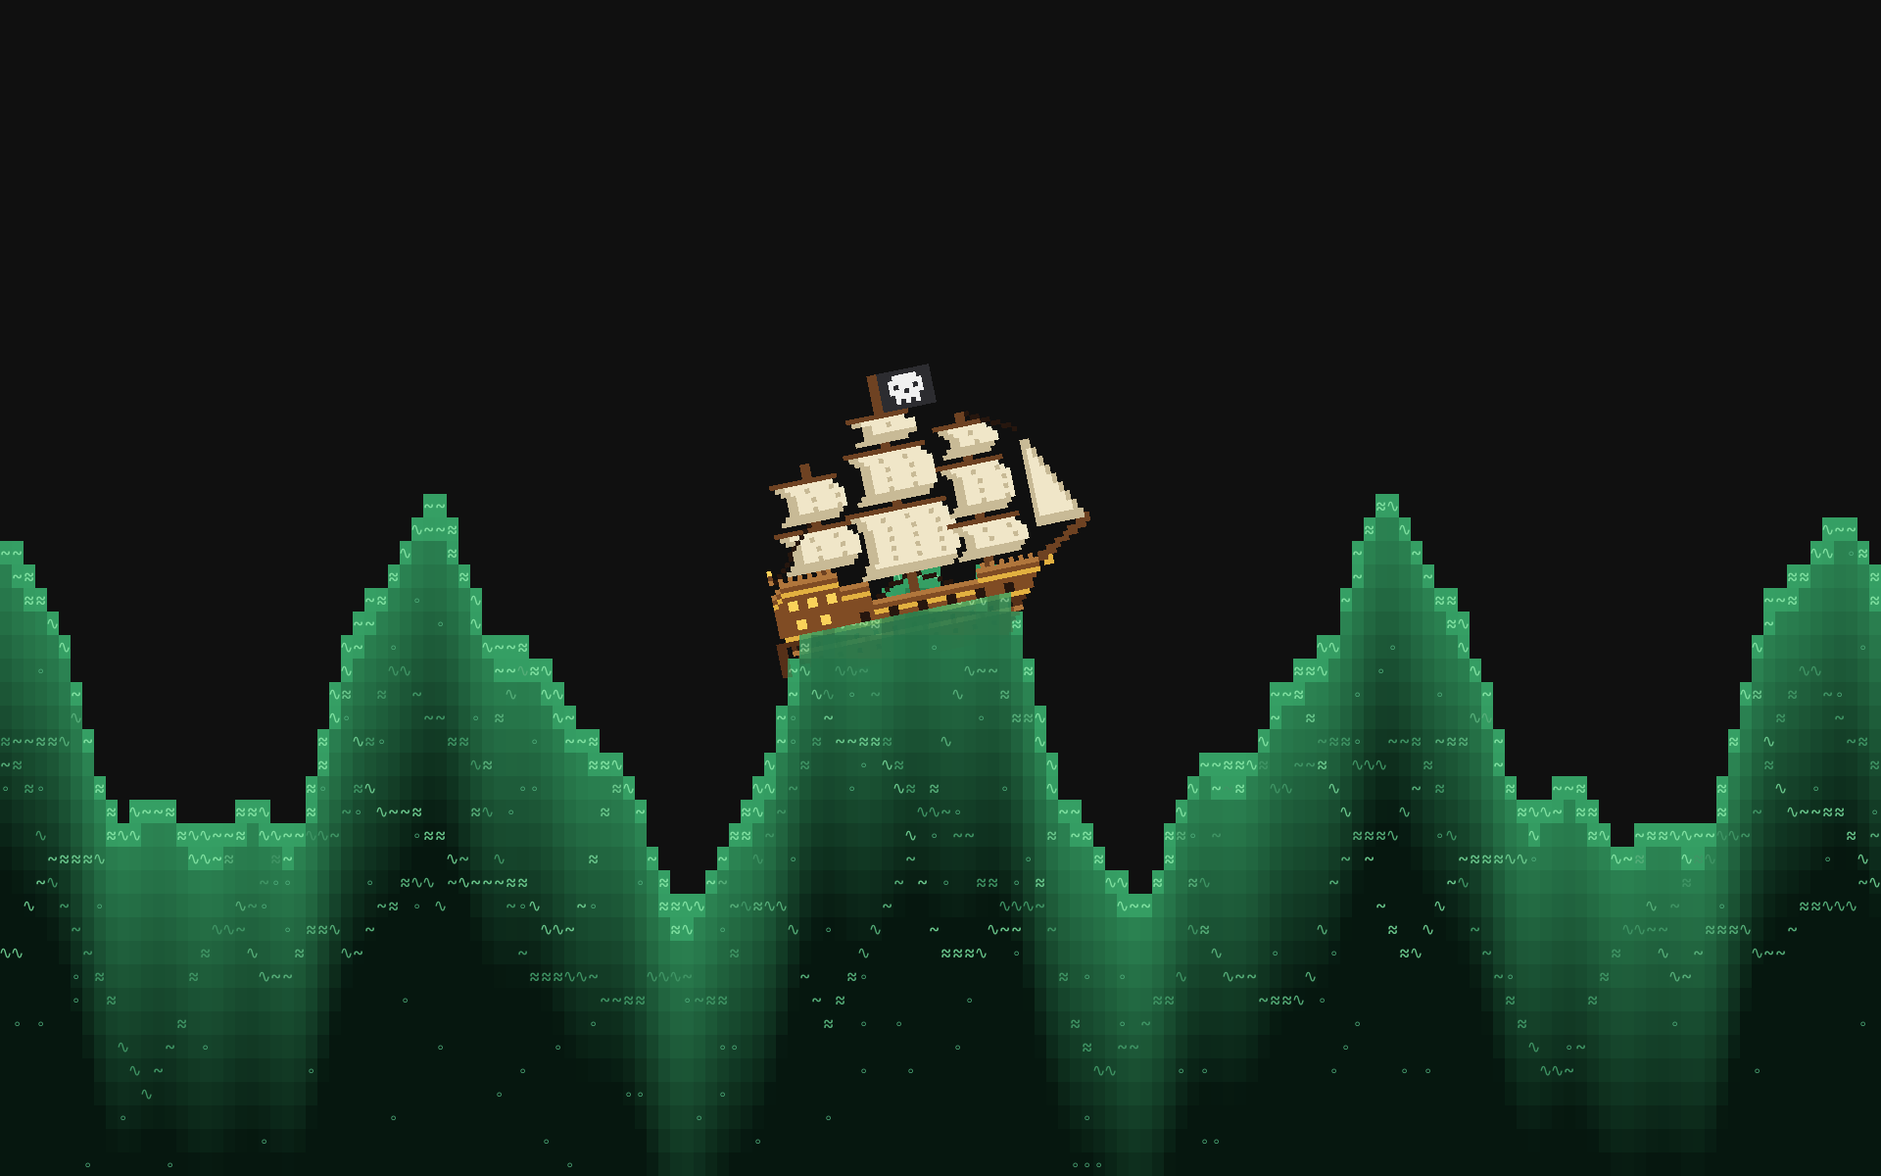
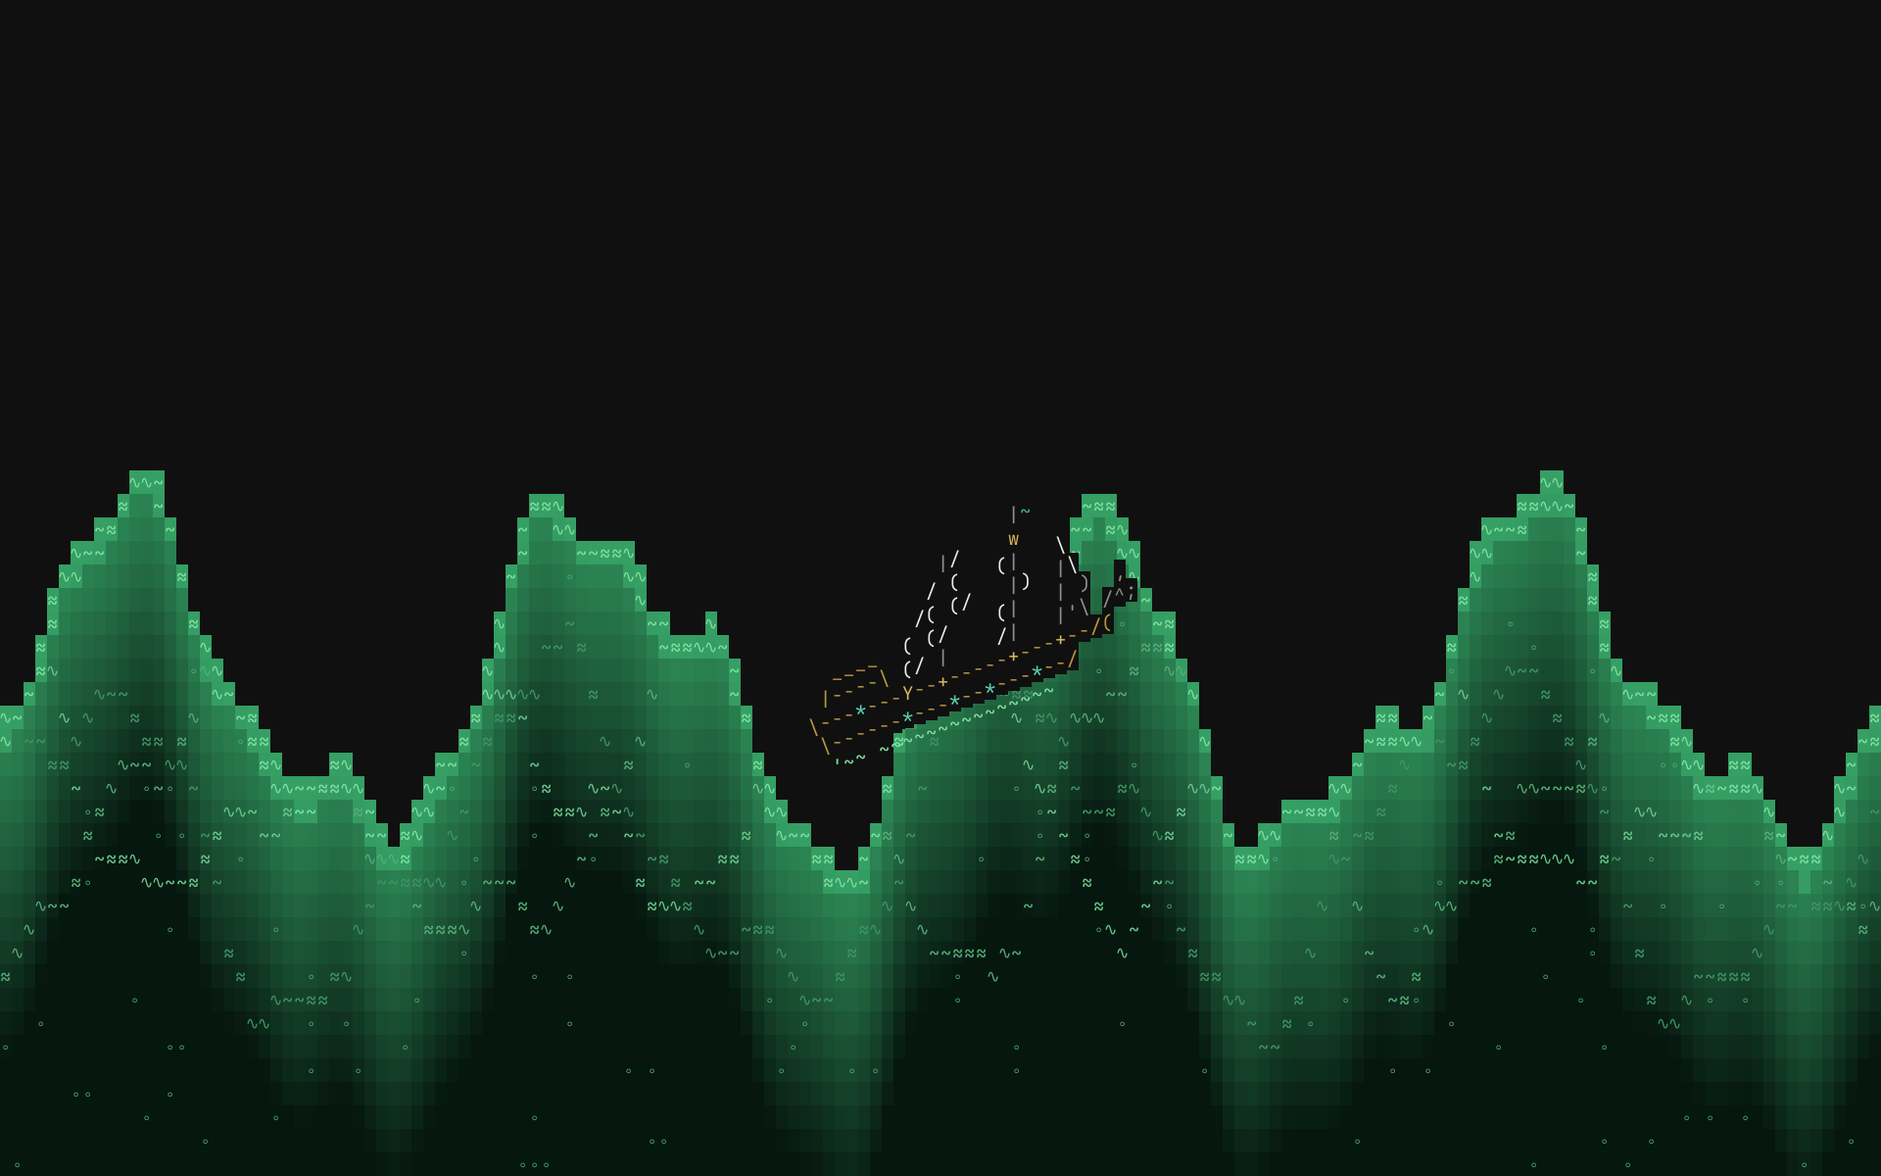
update: ascii ship, arch install

diff --git a/cosmic/_setup/wave-wallpaper/src/wave.rs b/cosmic/_setup/wave-wallpaper/src/wave.rs
@@ -38,12 +38,10 @@ pub struct Cfg {
     pub bubble: (u8, u8, u8),
     pub ripple_hi: (u8, u8, u8),
     pub ripple_lo: (u8, u8, u8),
-    /// Float a pixel-art pirate ship on the water.
+    /// Float a pirate ship, drawn in characters, on the water.
     pub ship: bool,
     /// Ship centre as a fraction of the width.
     pub ship_x: f32,
-    /// Screen pixels per sprite pixel.
-    pub ship_scale: usize,
     /// Whole screen crossings per loop (0 = stays put, negative = leftwards).
     pub ship_laps: i32,
 }
@@ -72,7 +70,6 @@ impl Default for Cfg {
             ripple_lo: (40, 120, 190),
             ship: false,
             ship_x: 0.5,
-            ship_scale: 5,
             ship_laps: 0,
         }
     }
@@ -325,9 +322,13 @@ impl Raster {
         let paths = [
             format!("{home}/.local/share/fonts/JetBrainsMono/JetBrainsMono-Regular.ttf"),
             "/usr/share/fonts/jetbrains-mono-fonts/JetBrainsMono-Regular.ttf".into(),
+            "/usr/share/fonts/TTF/JetBrainsMono-Regular.ttf".into(), // Arch
             "/usr/share/fonts/adwaita-mono-fonts/AdwaitaMono-Regular.ttf".into(),
             "/usr/share/fonts/liberation-mono-fonts/LiberationMono-Regular.ttf".into(),
             "/usr/share/fonts/dejavu-sans-fonts/DejaVuSans.ttf".into(),
+            "/usr/share/fonts/Adwaita/AdwaitaMono-Regular.ttf".into(),
+            "/usr/share/fonts/liberation/LiberationMono-Regular.ttf".into(),
+            "/usr/share/fonts/TTF/DejaVuSans.ttf".into(),
         ];
         let fonts: Vec<_> = paths
             .iter()
@@ -379,6 +380,51 @@ impl Raster {
                 }
                 let o = (py as usize * w + px as usize) * 4;
                 let c = lerp_rgb((frame[o], frame[o + 1], frame[o + 2]), cell.fg, a);
+                frame[o..o + 3].copy_from_slice(&[c.0, c.1, c.2]);
+            }
+        }
+    }
+    /// One character with its top-left cell corner at pixel (x, y), off the
+    /// grid. `bg` fills the cell first.
+    #[allow(clippy::too_many_arguments)]
+    fn blit(
+        &mut self,
+        frame: &mut [u8],
+        w: usize,
+        h: usize,
+        x: i32,
+        y: i32,
+        ch: char,
+        fg: (u8, u8, u8),
+        bg: Option<(u8, u8, u8)>,
+    ) {
+        let inside = |px: i32, py: i32| px >= 0 && py >= 0 && (px as usize) < w && (py as usize) < h;
+        if let Some(bg) = bg {
+            for py in y..y + self.cell_h as i32 {
+                for px in x..x + self.cell_w as i32 {
+                    if inside(px, py) {
+                        let o = (py as usize * w + px as usize) * 4;
+                        frame[o..o + 3].copy_from_slice(&[bg.0, bg.1, bg.2]);
+                    }
+                }
+            }
+        }
+        if ch == ' ' {
+            return;
+        }
+        let (cw, ascent) = (self.cell_w as i32, self.ascent);
+        let (m, bmp) = self.glyph(ch);
+        let gx = x + (cw - m.width as i32) / 2;
+        let gy = y + (ascent - m.height as f32 - m.ymin as f32).round() as i32;
+        for iy in 0..m.height {
+            for ix in 0..m.width {
+                let a = bmp[iy * m.width + ix] as f32 / 255.0;
+                let (px, py) = (gx + ix as i32, gy + iy as i32);
+                if a == 0.0 || !inside(px, py) {
+                    continue;
+                }
+                let o = (py as usize * w + px as usize) * 4;
+                let c = lerp_rgb((frame[o], frame[o + 1], frame[o + 2]), fg, a);
                 frame[o..o + 3].copy_from_slice(&[c.0, c.1, c.2]);
             }
         }
@@ -560,9 +606,9 @@ impl WaveRenderer {
             }
         }
         if let Some(ship) = &self.ship {
-            // The ship is drawn in pixels over the cell grid, so every cell
-            // it may have touched is re-rasterised next frame.
-            let (x0, y0, x1, y1) = ship.draw(&mut self.frame, &self.c, &self.surf, t);
+            // Drawn in pixels over the grid, so every cell it touched is
+            // re-rasterised next frame.
+            let (x0, y0, x1, y1) = ship.draw(&mut self.frame, &mut self.raster, &self.c, t);
             for cy in y0 / self.c.cell_h..y1.div_ceil(self.c.cell_h).min(rows) {
                 for cx in x0 / self.c.cell_w..x1.div_ceil(self.c.cell_w).min(cols) {
                     self.prev[cy * cols + cx] = None;
@@ -575,97 +621,43 @@ impl WaveRenderer {
 
 
 // ---- pirate ship --------------------------------------------------------------
-/// Galleon sprite, bow to the right. One char per sprite pixel, see
-/// `ship_rgb` for the palette; '.' is transparent.
-const SHIP_W: usize = 68;
-const SHIP_H: usize = 60;
-#[rustfmt::skip]
-const SHIP: [&str; SHIP_H] = [
-    ".............................mmFFFFFFFFFFF..........................",
-    ".............................mmFFFWWWWWFFF..........................",
-    ".............................mmFFWWWWWWWFF..........................",
-    ".............................mmFFWFWWWFWFF..........................",
-    ".............................mmFFWWWFWWWFF..........................",
-    ".............................mmFFFWWWWWFFF..........................",
-    ".............................mmFFFWFWFWFFF..........................",
-    ".............................mmFFFFFFFFFFF..........................",
-    ".......................mmmmmmmmmmmmm................................",
-    "........................ssSSSSSSSSS.................................",
-    "..........................ssSSSsSSSSS...............................",
-    "..........................ssSSSSSSSSS........mmk....................",
-    "..........................sssssssssss........mm.kk..................",
-    "........................sssssssssss.....mmmmmmmmmmkk................",
-    ".............................mm..........ssSSSSSSSS.kk..............",
-    "............mm.......mmmmmmmmmmmmmmmmm....ssSSSsSSSS..kk............",
-    "............mm........ssSSSSSSSSSSSSS......ssSSSSSSSS...k...........",
-    "............mm.........ssSSSsSSSSsSSSS.....ssSSSsSSSS...............",
-    ".....mmmmmmmmmmmmmm.....ssSSSSSSSSSSSSS...ssssssssss................",
-    "......ssSSSSSSSSSS......ssSSSsSSSSsSSSS..ssssssssss......ss.........",
-    ".......ssSSSsSSSSsS.....ssSSSSSSSSSSSSS......mm..........ss.........",
-    "........ssSSSSSSSSSS....ssSSSsSSSSsSSSSmmmmmmmmmmmmmm....sSs........",
-    "........ssSSSsSSSSsS....ssSSSSSSSSSSSSS.ssSSSSSSSSSS.....sSs........",
-    "........ssSSSSSSSSSS....ssSSSsSSSSsSSSS..ssSSSsSSSSsS....sSSs.......",
-    "........ssSSSsSSSSsS...sssssssssssssss....ssSSSSSSSSSS...sSSs.......",
-    ".......ssssssssssss...sssssssssssssss.....ssSSSsSSSSsS...sSSSs......",
-    "......ssssssssssss...........mm...........ssSSSSSSSSSS...sSSSs......",
-    "...........kmm.....mmmmmmmmmmmmmmmmmmmmm..ssSSSsSSSSsS...sSSSSs.....",
-    "....mmmmmmkmmmmmmmmmssSSSSSSSSSSSSSSSSS...ssSSSSSSSSSS...sSSSSs.....",
-    ".....ssSSkSSSSSSSSS..ssSSSsSSSSsSSSSsSSS..ssSSSsSSSSsS...sSSSSSs....",
-    "......sskSSsSSSSsSSS.ssSSSSSSSSSSSSSSSSS.ssssssssssss....sSSSSSs....",
-    ".......ksSSSSSSSSSSSS.ssSSSsSSSSsSSSSsSSssssssssssss.....sSSSSSSs...",
-    "......kssSSSsSSSSsSSS.ssSSSSSSSSSSSSSSSSS....mm..........sSSSSSSs...",
-    "......kssSSSSSSSSSSSS.ssSSSsSSSSsSSSSsSmmmmmmmmmmmmmmm...sSSSSSSSs..",
-    ".....k.ssSSSsSSSSsSSS.ssSSSSSSSSSSSSSSSSssSSSSSSSSSSS....sSSSSSSSs..",
-    ".Y..k.ssssssssssssss..ssSSSsSSSSsSSSSsSSSssSSSsSSSSsSS...ssssssssss.",
-    ".m.k.ssssssssssssss...ssSSSSSSSSSSSSSSSSS.ssSSSSSSSSSSS..ssssssssssm",
-    ".wkw.w.w.w.wmw........ssSSSsSSSSsSSSSsSSS.ssSSSsSSSSsSS..........mmm",
-    "...wwwwwwwwwwww......ssSSSSSSSSSSSSSSSSS..ssSSSSSSSSSSS........mmmm.",
-    "..wbbbbbbbbbbbb......sssssssssssssssssss.sssssssssssss........mmm...",
-    ".wbGGGGGGGGGGGG.....sssssssssssssssssss.sssssssssssss.......mmm.....",
-    ".bGbbbbbbbbbbbbwwwwww.......kmmk.............mm...........mmm.......",
-    ".GbbYYbbYYbbYYbbbbbbb....kkk.mm.kkk.........wmw.w.w.w.w.mmmm........",
-    ".bbbYYbbYYbbYYbGGGGGG...k....mm....k.......wwwwwwwwwwwwwmmG.........",
-    ".bbbbbbbbbbbbbbbbbbbb.kk.....mm.....kk.....bbbbbbbbbbbbb.GG.........",
-    ".bbbbbbbbbbbbbbbbbbbbwwwwwwwwwwwwwwwwwwwwwwGGGGGGGGGGGGG............",
-    ".bbbbYYbbbYYbbbbbbbbbbbbbbbbbbbbbbbbbbbbbbbbbbbbbbbbbbb.............",
-    ".bbbbYYbbbYYbbbbbbkkbGGGkkGGGGkkGGGGkkGGGGkkbbbbkkbbbb..............",
-    ".bbbbbbbbbbbbbbbbbkkbbbbkkbbbbkkbbbbkkbbbbkkbbbbkkbbbb..............",
-    "..GGGGGGGGGGGGGGGGGGGGGGGGGGGGGGGGGGGGGGGGGGGGGGGGGGG...............",
-    "BBBBBBBBBBBBBBBBBBBBBBBBBBBBBBBBBBBBBBBBBBBBBBBBBBBB................",
-    "BB.BkBBBkBBBkBBBkBBBkBBBkBBBkBBBkBBBkBBBkBBBkBBBkBB.................",
-    "BB.wwwbwwwwwbwwwwwbwwwwwbwwwwwbwwwwwbwwwwwbwwwwwbww.................",
-    "BB..BBBBBBBBBBBBBBBBBBBBBBBBBBBBBBBBBBBBBBBBBBBBBB..................",
-    "BB..kBBBkBBBkBBBkBBBkBBBkBBBkBBBkBBBkBBBkBBBkBBBk...................",
-    "BB....BBBBBBBBBBBBBBBBBBBBBBBBBBBBBBBBBBBBBBBBBB....................",
-    "BB......BBBBBBBBBBBBBBBBBBBBBBBBBBBBBBBBBBBBBBBB....................",
-    "........BBBBBBBBBBBBBBBBBBBBBBBBBBBBBBBBBBBBBBB.....................",
-    "....................................................................",
-    "....................................................................",
+/// Ship in characters, bow to the right; the last row is its wake.
+const SHIP: [&str; 9] = [
+    r"                 |~",
+    r"           |/    w",
+    r"          / (   (|   \",
+    r"         /( (/   |)  |\",
+    r"  ____  ( (/    (|   | )  ,",
+    r" |----\ (/ |    /|   |'\ /^;",
+    r"\---*---Y--+-----+---+--/(",
+    r" \------*---*--*---*--/",
+    r"  '~~ ~~~~~~~~~~~~~~~",
 ];
-/// Sprite point that sits on the water: midships, on the design waterline.
-const SHIP_PIVOT: (f32, f32) = (29.0, 52.5);
-/// Sprite rows of hull below the waterline at rest.
-const SHIP_DRAFT_PX: f32 = 5.5;
-/// Topmost sprite row the sea may cover.
-const SHIP_WASH_ROW: f32 = 49.0;
-/// Hull length at the waterline, in sprite pixels.
-const SHIP_HULL_PX: f32 = 54.0;
+const SHIP_W: usize = 28;
+/// Art point that sits on the water: midships, on the design waterline.
+const SHIP_PIVOT: (f32, f32) = (12.0, 7.4);
+/// Rows of hull below the waterline at rest.
+const SHIP_DRAFT: f32 = 0.9;
+const SHIP_WAKE_ROW: usize = 8;
+/// Hull length at the waterline, in cells.
+const SHIP_HULL: f32 = 23.0;
 
-fn ship_rgb(ch: u8) -> Option<(u8, u8, u8)> {
-    Some(match ch {
-        b'k' => (38, 22, 14),    // tar / outline
-        b'B' => (86, 48, 24),    // dark planks
-        b'b' => (128, 76, 36),   // planks
-        b'w' => (176, 118, 60),  // light planks, rails
-        b'm' => (110, 66, 34),   // masts, yards
-        b'G' => (226, 176, 64),  // gold trim
-        b'Y' => (250, 210, 90),  // lit windows
-        b'S' => (240, 230, 200), // sails
-        b's' => (200, 186, 150), // sail shade
-        b'F' => (44, 44, 48),    // jolly roger
-        b'W' => (240, 240, 240), // skull
-        _ => return None,
-    })
+/// Colours from the blackpearl palette, by part.
+fn ship_rgb(row: usize, col: usize, ch: char) -> (u8, u8, u8) {
+    const MAST: (u8, u8, u8) = (0x8c, 0x91, 0x8d);
+    const HULL: (u8, u8, u8) = (0xb8, 0x97, 0x3f);
+    const TRIM: (u8, u8, u8) = (0xd9, 0xb8, 0x5a);
+    match (row, col, ch) {
+        (SHIP_WAKE_ROW, ..) => (0x7f, 0xe0, 0xa0),         // wake: ghost green
+        (_, _, '~') => (0x3c, 0xb3, 0x71),                 // flag: sea green
+        (_, _, 'w') => TRIM,                               // crow's nest
+        (_, 11 | 17 | 21, '|') => MAST,
+        (4..=5, 22.., _) => MAST,                          // bowsprit
+        (6.., _, '*') => (0x5f, 0xd1, 0xb5),               // lit ports
+        (6.., _, 'Y' | '+') => TRIM,
+        (6.., ..) | (4..=5, ..=6, _) => HULL,              // hull, stern castle
+        _ => (0xe6, 0xec, 0xe7),                           // sails
+    }
 }
 
 const SHIP_HZ: f32 = 240.0;
@@ -682,7 +674,11 @@ const SHIP_HEAVE_ZETA: f32 = 0.6;
 /// Pitch spring: natural frequency (rad/s) and damping ratio.
 const SHIP_PITCH_W: f32 = 5.0;
 const SHIP_PITCH_ZETA: f32 = 0.45;
-const SHIP_MAX_PITCH: f32 = 0.36;
+const SHIP_MAX_PITCH: f32 = 0.26;
+/// In the air: radians of pitch per row/s of vertical speed (before the
+/// atan), and the limit.
+const SHIP_AIR_PITCH: f32 = 0.05;
+const SHIP_MAX_AIR_PITCH: f32 = 0.4;
 /// Surge: how hard the ship slides down a wave face, and the mooring
 /// spring/damper that brings it back.
 const SHIP_SURGE_PUSH: f32 = 7.0;
@@ -718,11 +714,10 @@ impl Ship {
     }
 
     fn new(c: &Cfg, wave: &Wave, cols: f32) -> Self {
-        let scale = c.ship_scale as f32;
         let aspect = c.cell_h as f32 / c.cell_w as f32;
-        let half_hull = SHIP_HULL_PX * scale / c.cell_w as f32 / 2.0;
-        let draft = SHIP_DRAFT_PX * scale / c.cell_h as f32;
-        let half_extent = SHIP_W as f32 * scale / c.cell_w as f32;
+        let half_hull = SHIP_HULL / 2.0;
+        let draft = SHIP_DRAFT;
+        let half_extent = SHIP_W as f32;
         let span = cols + 2.0 * half_extent;
         let mut ship = Ship {
             track: Vec::new(),
@@ -776,11 +771,15 @@ impl Ship {
             // pull it down faster than it falls: off a sharp crest it flies.
             vy += lift.min(gravity) * dt;
             y += vy * dt;
-            // Pitch towards the water's slope; in the air it just coasts.
+            // Pitch towards the water's slope.
             let px_slope = slope * aspect;
-            let target = (px_slope.atan() * 0.75).clamp(-SHIP_MAX_PITCH, SHIP_MAX_PITCH);
+            let afloat = (px_slope.atan() * 0.75).clamp(-SHIP_MAX_PITCH, SHIP_MAX_PITCH);
+            // Airborne it points along its fall: bow up while rising, bow
+            // down as it drops back.
+            let flying = (vy * SHIP_AIR_PITCH).atan().clamp(-SHIP_MAX_AIR_PITCH, SHIP_MAX_AIR_PITCH);
+            let target = afloat * wet + flying * (1.0 - wet);
             let k = SHIP_PITCH_W * SHIP_PITCH_W;
-            om += (k * (0.25 + 0.75 * wet) * (target - th) - 2.0 * SHIP_PITCH_ZETA * SHIP_PITCH_W * om) * dt;
+            om += (k * (target - th) - 2.0 * SHIP_PITCH_ZETA * SHIP_PITCH_W * om) * dt;
             th += om * dt;
             // Surge.
             vx += (SHIP_SURGE_PUSH * wet * px_slope.clamp(-1.5, 1.5) - SHIP_SURGE_K * xo - SHIP_SURGE_DAMP * vx) * dt;
@@ -810,48 +809,42 @@ impl Ship {
         (a.0 + (b.0 - a.0) * k, a.1 + (b.1 - a.1) * k, a.2 + (b.2 - a.2) * k)
     }
 
-    /// Paint the ship into `frame`; returns the touched pixel rectangle
-    /// (x0, y0, x1, y1), end-exclusive. `surf` is the water surface row per
-    /// cell column for this frame: hull pixels inside water cells only show
-    /// through faintly, so the ship sits in the sea rather than on it.
-    fn draw(&self, frame: &mut [u8], c: &Cfg, surf: &[f32], t: f32) -> (usize, usize, usize, usize) {
+    /// Paint the ship's characters into `frame`, over the rasterised grid,
+    /// at pixel positions so it moves smoothly. Pitch is a shear: columns
+    /// slide up or down and the glyphs stay upright. Returns the touched
+    /// pixel rectangle (x0, y0, x1, y1), end-exclusive. Every character,
+    /// wake included, is opaque and in front of the waves.
+    fn draw(&self, frame: &mut [u8], raster: &mut Raster, c: &Cfg, t: f32) -> (usize, usize, usize, usize) {
         let (xo, y, th) = self.state(t);
-        let scale = c.ship_scale as f32;
-        let cxp = (self.base_x(t) + xo) * c.cell_w as f32;
-        let cyp = y * c.cell_h as f32;
-        let r = (SHIP_W as f32).hypot(SHIP_H as f32) * scale;
-        let clamp = |v: f32, hi: usize| v.clamp(0.0, hi as f32) as usize;
-        let (x0, x1) = (clamp(cxp - r, c.width), clamp(cxp + r, c.width));
-        let (y0, y1) = (clamp(cyp - r, c.height), clamp(cyp + r, c.height));
-        let (sin, cos) = th.sin_cos();
-        for py in y0..y1 {
-            let row = (py / c.cell_h) as f32;
-            for px in x0..x1 {
-                let (dx, dy) = (px as f32 + 0.5 - cxp, py as f32 + 0.5 - cyp);
-                let u = ((dx * cos + dy * sin) / scale + SHIP_PIVOT.0).floor();
-                let v = ((dy * cos - dx * sin) / scale + SHIP_PIVOT.1).floor();
-                if u < 0.0 || v < 0.0 || u >= SHIP_W as f32 || v >= SHIP_H as f32 {
+        let (cw, chh) = (c.cell_w as f32, c.cell_h as f32);
+        let left = (self.base_x(t) + xo - SHIP_PIVOT.0) * cw;
+        let top = (y - SHIP_PIVOT.1) * chh;
+        let slope = th.tan();
+        let (mut bx0, mut by0, mut bx1, mut by1) = (c.width, c.height, 0usize, 0usize);
+        for (r, line) in SHIP.iter().enumerate() {
+            // The ship is solid: the gaps inside it hide the sea behind too.
+            let lo = line.find(|ch| ch != ' ').unwrap();
+            // (not the gap under the bowsprit)
+            let hi = if (4..=5).contains(&r) { 23 } else { line.len() };
+            for (u, ch) in line.chars().enumerate() {
+                let solid = r != SHIP_WAKE_ROW && (ch != ' ' || (u >= lo && u < hi));
+                if ch == ' ' && !solid {
                     continue;
                 }
-                let Some(rgb) = ship_rgb(SHIP[v as usize].as_bytes()[u as usize]) else {
-                    continue;
-                };
-                // Water only laps the hull: from the wale down it is drawn
-                // over the ship, above that the ship is in front of the sea.
-                let depth = row + 0.5 - surf[px / c.cell_w];
-                let alpha = if depth < 0.0 || v < SHIP_WASH_ROW {
-                    1.0
-                } else {
-                    0.28 * (1.0 - depth / 3.0)
-                };
-                if alpha <= 0.0 {
+                let x = (left + u as f32 * cw).round() as i32;
+                let dy = (u as f32 + 0.5 - SHIP_PIVOT.0) * cw * slope;
+                let yy = (top + r as f32 * chh + dy).round() as i32;
+                if x + c.cell_w as i32 <= 0 || yy + c.cell_h as i32 <= 0 || x >= c.width as i32 || yy >= c.height as i32 {
                     continue;
                 }
-                let o = (py * c.width + px) * 4;
-                let m = lerp_rgb((frame[o], frame[o + 1], frame[o + 2]), rgb, alpha);
-                frame[o..o + 3].copy_from_slice(&[m.0, m.1, m.2]);
+                let bg = solid.then_some(c.sky);
+                raster.blit(frame, c.width, c.height, x, yy, ch, ship_rgb(r, u, ch), bg);
+                bx0 = bx0.min(x.max(0) as usize);
+                by0 = by0.min(yy.max(0) as usize);
+                bx1 = bx1.max(((x + c.cell_w as i32).max(0) as usize).min(c.width));
+                by1 = by1.max(((yy + c.cell_h as i32).max(0) as usize).min(c.height));
             }
         }
-        (x0, y0, x1, y1)
+        (bx0.min(bx1), by0.min(by1), bx1, by1)
     }
 }

diff --git a/cosmic/_setup/wave-wallpaper/src/main.rs b/cosmic/_setup/wave-wallpaper/src/main.rs
@@ -5,8 +5,7 @@
 //! (all optional): `--width/--height/--cell-w/--cell-h/--fps`, `--loop SECS`,
 //! `--rate WORDS_PER_SEC`, `--no-words`, `--no-bubbles`, `--amp SCALE`, `--chop SCALE`,
 //! colours as `#rrggbb`: `--sky --sea --deep --crest --foam --bubble
-//! --ripple-hi --ripple-lo`, the ship: `--ship [--ship-x FRAC]
-//! [--ship-scale PX] [--ship-laps N]`, and `--at SECS` to emit the single
+//! --ripple-hi --ripple-lo`, the ship: `--ship [--ship-x FRAC] [--ship-laps N]`, and `--at SECS` to emit the single
 //! frame at that timeline time instead of the whole video.
 
 mod wave;
@@ -54,7 +53,6 @@ fn parse_args() -> (Cfg, Option<f32>) {
                     "--ripple-hi" => c.ripple_hi = rgb(v),
                     "--ripple-lo" => c.ripple_lo = rgb(v),
                     "--ship-x" => c.ship_x = v.parse().unwrap(),
-                    "--ship-scale" => c.ship_scale = v.parse().unwrap(),
                     "--ship-laps" => c.ship_laps = v.parse().unwrap(),
                     "--at" => at = Some(v.parse().unwrap()),
                     other => panic!("unknown arg {other}"),

diff --git a/cosmic/README.md b/cosmic/README.md
@@ -27,6 +27,9 @@ make install-cosmic   # stow the dotfiles into $HOME
 make setup-cosmic     # deps, mpvpaper, patched locker, video, service (asks for sudo)
 ```
 
+`setup-cosmic` works on Fedora (dnf) and Arch (pacman); it picks the package
+manager it finds.
+
 Then log out and back in.
 
 ## Keep it up to date
@@ -72,7 +75,7 @@ to "Default Dark Modern", so they are inert under Gruvbox).
 `install.sh` clones `pop-os/cosmic-greeter`, checks out the tag matching the
 installed `cosmic-greeter` package (`epoch-<version>`), applies the patch,
 and installs the build to `/usr/local/bin/cosmic-greeter`. cosmic-session
-finds it there before `/usr/bin`, so a Fedora update never overwrites it —
+finds it there before `/usr/bin`, so a system update never overwrites it —
 but after a COSMIC upgrade, run `make setup-cosmic` again so the locker
 matches the new version.
 
